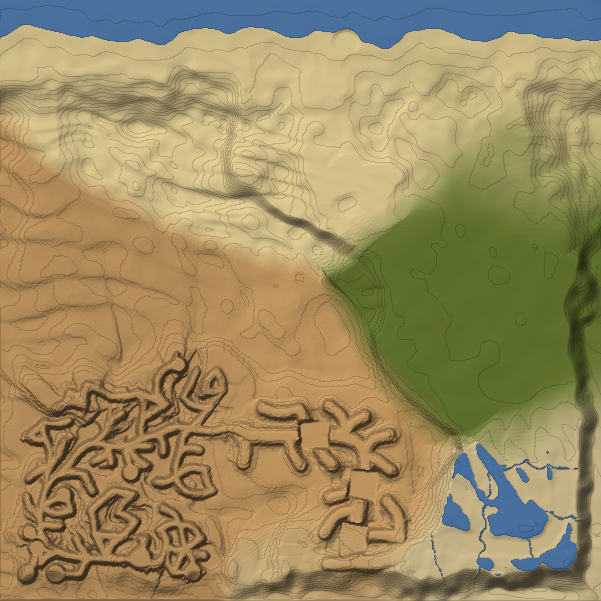
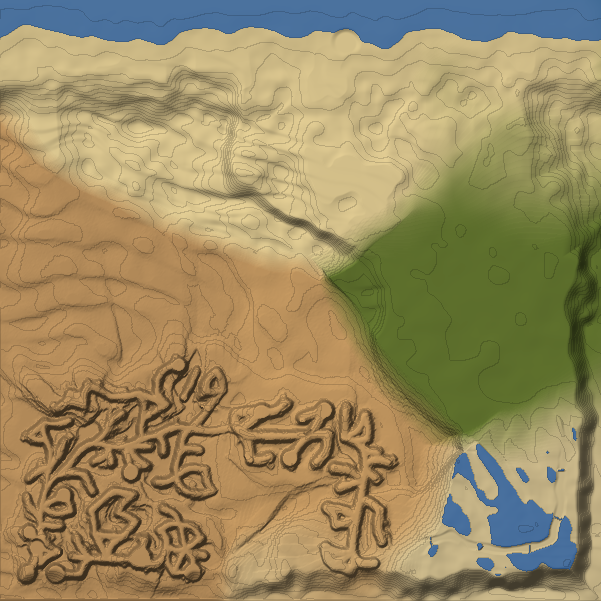
feat(tools): cañón en laberinto con túneles excavados que bajan y suben
- Cañón: otro laberinto de acantilados (2 niveles, 41 nodos, 12
  callejones, 4 señuelos) de caras algo más tendidas y cimas onduladas,
  en lugar del pasillo recto con loma rectangular.
- Túneles: tramos del propio laberinto excavados en la roca, 2 en los
  acantilados y 3 en el cañón; en cada zona el camino bueno pasa por uno.
  Sección elíptica redondeada que cambia de ancho y alto, suelo plano que
  baja (o sube) 1,5-3,2 m por dentro y vuelve a la cota del laberinto en
  las bocas. La arista del túnel no abre pasillo en el relieve: queda roca
  encima.
- Zona encharcada: sendero estrecho (2-3,3 m) que serpentea hasta ~7 m a
  los lados de la ruta; el charco que lo corta ya no cruza la zona entera.
- Todo sale del generador aparte: la semilla aprobada sigue igual.
- Tests: túneles en las dos zonas con roca encima, desnivel y el camino
  bueno por un túnel en cada zona; sendero seco a menos de 8 m de la ruta.

diff --git a/Scripts/terrain_vol/density.py b/Scripts/terrain_vol/density.py
@@ -31,10 +31,13 @@ CLIFF_LEVEL_M = 4.5                     # separacion entre niveles del laberinto
 CLIFF_LEVELS = 3
 MARSH_PATH_TOP_M = WATER_M + 1.3        # crestas por las que se cruza la zona encharcada
 END_PLAZA_M = WATER_M + 1.8             # plaza de llegada, seca, sobre la playa
-MARSH_JUMP_EVERY_M = 48.0               # cada cuanto un canal estrecho corta la barra y se salta
-TUNNEL_HALF_WIDTH_M = 5.0
-TUNNEL_HEIGHT_M = 5.5
-TUNNEL_LENGTH_M = (26.0, 36.0)
+MARSH_JUMP_EVERY_M = 48.0               # cada cuanto un charco estrecho corta el sendero y se salta
+MARSH_WIGGLE_M = 7.0                    # cuanto se aparta el sendero de la ruta a los lados
+TUNNEL_HALF_WIDTH_M = 3.6              # semiancho de la seccion del tunel del laberinto
+TUNNEL_HEIGHT_M = 5.0
+TUNNEL_LENGTH_M = (26.0, 36.0)         # (solo lo usa el plan antiguo, que se conserva por la semilla)
+TUNNEL_EDGE_M = (14.0, 42.0)           # longitud de las aristas del laberinto que se hacen tunel
+TUNNELS_PER_ZONE = {"cliffs": 2, "canyon": 3}
 OUTER_WALL_M = 15.0
 EDGE_WALL_M = 20.0
 TOP_LIMIT_M = Z_MAX_M - 2.0
@@ -118,6 +121,18 @@ class MapModel:
         self.n_tunnel = Fbm2D(extra, 9.0, 2)
         self.n_crest = Fbm2D(extra, 11.0, 2)
         self.n_beach_hills = Fbm2D(extra, 48.0, 3)
+        self.marsh_warp = (Fbm2D(extra, 26.0, 2), Fbm2D(extra, 26.0, 2))
+        # Canon como laberinto de acantilados (enrevesado, como el de la salida) y tuneles como
+        # tramos del laberinto excavados en la roca, en los acantilados y en el canon.
+        self.nets["canyon_maze"] = build_network(extra, self.zones, "canyon", 18.0, 0.15, level_step=CLIFF_LEVEL_M,
+                                                 level_count=2, decoys=True, reach_share=0.8)
+        self.maze_tunnels = self._pick_maze_tunnels(extra)
+        for zone in ("cliffs", "canyon_maze"):
+            closed = {e for z, e, _ in self.maze_tunnels if z == zone}
+            self.net_samples[zone] = self.nets[zone].sample(exclude=closed)
+            self.net_trees[zone] = cKDTree(self.net_samples[zone][0])
+        self.clearings["canyon_maze"] = self._pick_clearings(extra, self.nets["canyon_maze"])
+        self._build_tunnel_samples()
 
         # Campos 2D del mapa entero, con una muestra de margen alrededor.
         count = int(round((MAP_MAX_M - MAP_MIN_M) / STEP_XY_M)) + 1
@@ -137,6 +152,72 @@ class MapModel:
         levels = net.levels if net.levels is not None else np.zeros(len(net.nodes))
         return np.array([[net.nodes[k][0], net.nodes[k][1], rng.uniform(5.5, 8.5), levels[k]]
                          for k in picked]).reshape(-1, 4)
+
+    def _pick_maze_tunnels(self, rng: np.random.Generator) -> list[tuple[str, int, float]]:
+        """Aristas del laberinto que se excavan como tunel: (red, arista, desnivel). En cada zona
+        al menos una esta en la cadena (el camino bueno pasa por un tunel). El desnivel es sobre
+        todo negativo: el tunel baja por dentro y vuelve a subir."""
+        picked = []
+        for zone, net_name in (("cliffs", "cliffs"), ("canyon", "canyon_maze")):
+            net = self.nets[net_name]
+            chain_edges = {tuple(sorted((net.chain[k], net.chain[k + 1]))) for k in range(2, len(net.chain) - 3)}
+            lengths = [float(np.sum(np.linalg.norm(np.diff(c, axis=0), axis=1))) for c in net.curves]
+            ok = [k for k, e in enumerate(net.edges) if TUNNEL_EDGE_M[0] <= lengths[k] <= TUNNEL_EDGE_M[1]]
+            on_chain = [k for k in ok if tuple(sorted(net.edges[k])) in chain_edges]
+            others = [k for k in ok if tuple(sorted(net.edges[k])) not in chain_edges]
+            rng.shuffle(on_chain)
+            rng.shuffle(others)
+            chosen = on_chain[:1] + others[:TUNNELS_PER_ZONE[zone] - 1]
+            used_nodes: set[int] = set()
+            for k in chosen:
+                a, b = net.edges[k]
+                if a in used_nodes or b in used_nodes:
+                    continue
+                used_nodes |= {a, b}
+                dip = float(rng.uniform(1.5, 3.2)) * (-1.0 if rng.random() < 0.75 else 1.0)
+                picked.append((net_name, k, dip))
+        return picked
+
+    def _build_tunnel_samples(self) -> None:
+        """Puntos de todos los tuneles cada 0,5 m (prolongados 2,5 m por cada boca) con su
+        parametro t (0..1 de boca a boca), la cota de su suelo y su desnivel."""
+        pts, ts, floors, dips = [], [], [], []
+        for net_name, edge, dip in self.maze_tunnels:
+            net = self.nets[net_name]
+            curve = net.curves[edge]
+            seg = np.linalg.norm(np.diff(curve, axis=0), axis=1)
+            arc = np.concatenate(([0.0], np.cumsum(seg)))
+            s = np.arange(-2.5, arc[-1] + 2.5 + 0.5, 0.5)
+            x = np.interp(s, arc, curve[:, 0])
+            y = np.interp(s, arc, curve[:, 1])
+            # Prolongacion recta por las bocas (interp satura en los extremos).
+            head = (curve[1] - curve[0]) / max(float(np.linalg.norm(curve[1] - curve[0])), 1e-9)
+            tail = (curve[-1] - curve[-2]) / max(float(np.linalg.norm(curve[-1] - curve[-2])), 1e-9)
+            before, after = s < 0.0, s > arc[-1]
+            x[before] = curve[0, 0] + head[0] * s[before]
+            y[before] = curve[0, 1] + head[1] * s[before]
+            x[after] = curve[-1, 0] + tail[0] * (s[after] - arc[-1])
+            y[after] = curve[-1, 1] + tail[1] * (s[after] - arc[-1])
+            t = s / max(arc[-1], 1e-9)
+            pts.append(np.stack([x, y], axis=1))
+            ts.append(t)
+            floors.append(net.edge_floor(edge, t))
+            dips.append(np.full_like(t, dip))
+        if pts:
+            self.tunnel_pts = np.vstack(pts)
+            self.tunnel_t = np.concatenate(ts)
+            self.tunnel_floor = np.concatenate(floors)
+            self.tunnel_dip = np.concatenate(dips)
+            self.tunnel_tree = cKDTree(self.tunnel_pts)
+        else:
+            self.tunnel_tree = None
+
+    def _tunnel_query(self, X, Y):
+        """(distancia al eje del tunel mas cercano, t, suelo, desnivel), con la forma de X."""
+        d, k = self.tunnel_tree.query(np.stack([X.ravel(), Y.ravel()], axis=1))
+        shape = X.shape
+        return (d.reshape(shape), self.tunnel_t[k].reshape(shape), self.tunnel_floor[k].reshape(shape),
+                self.tunnel_dip[k].reshape(shape))
 
     def _plan_tunnels(self, rng: np.random.Generator) -> list[tuple[float, float]]:
         """2-3 tramos de tunel en el canon, en tramos casi rectos de la ruta y separados."""
@@ -200,18 +281,6 @@ class MapModel:
         strength = smooth(0.2, 0.8, self.n_dune_amp.unit(X, Y))
         return amp * field * (0.15 + 0.85 * strength)
 
-    def _tunnel_mask(self, s, d):
-        out = np.zeros_like(s)
-        for a, b in self.tunnels:
-            out = np.maximum(out, smooth(a - 1.0, a + 1.0, s) * (1.0 - smooth(b - 1.0, b + 1.0, s)))
-        return out * (1.0 - smooth(TUNNEL_HALF_WIDTH_M + 6.0, TUNNEL_HALF_WIDTH_M + 12.0, d))
-
-    def _ridge(self, s, d):
-        out = np.zeros_like(s)
-        for a, b in self.tunnels:
-            out = np.maximum(out, smooth(a - 12.0, a + 2.0, s) * (1.0 - smooth(b - 2.0, b + 12.0, s)))
-        return 4.0 * out * (1.0 - smooth(18.0, 35.0, d))
-
     def _rock_walls(self, X, Y, d, hw, f, top, face_width: float = 1.1, rim: float = 0.0):
         """Pasillo en roca con aspecto erosionado: contrafuertes, grietas que se meten en la
         pared y un talud de derrubios al pie. face_width: anchura horizontal de la cara (1 m ~
@@ -262,38 +331,43 @@ class MapModel:
         near_corridor = 1.0 - smooth(hw + 1.0, hw + 9.0, d_eff)
         floors["cliffs"] = f * near_corridor + (level_soft * (1.0 - start_w)) * (1.0 - near_corridor)
 
-        # Canon: pasillo algo mas recto y ancho por la ruta, callejones a los lados y tuneles.
-        d_side, _ = self._net("canyon", X, Y)
-        hw_main = 5.0 + 1.8 * width + 0.7 * self.n_buttress(X, Y)
-        d_can = np.minimum(d_route - (hw_main - 4.0), d_side)      # misma cara para los dos
-        tunnel = self._tunnel_mask(s_route, d_route)
-        d_can = np.where(tunnel > 0.5, np.maximum(d_can, 30.0), d_can)
-        f = 0.8 + 0.8 * mid
-        # Cimas onduladas (no una meseta de regla): repisas solo a medias, relieve grande.
-        raw_top = f + 9.0 + 5.0 * self.n_mid.unit(X, Y) + 2.5 * big + 1.2 * small + self._ridge(s_route, d_route)
-        top = 0.5 * raw_top + 0.5 * strata(raw_top, 2.5)
-        face_w = 2.6 + 1.6 * self.n_talus.unit(X, Y)
+        # Canon: otro laberinto de acantilados (2 niveles), de caras algo mas tendidas y cimas
+        # onduladas; sus tuneles son tramos del laberinto excavados en la roca.
+        d, level = self._net("canyon_maze", X, Y)
+        _, level_soft = self._net("canyon_maze", X, Y, smooth_m=10.0)
+        clear_w, clear_level = self._clearing("canyon_maze", X, Y)
+        hw = 3.4 + 1.4 * width + 0.8 * self.n_buttress(X, Y)
+        f = (level * (1.0 - clear_w) + clear_level * clear_w) + 0.3 * small
+        raw_top = level_soft + 10.0 + 4.5 * self.n_mid.unit(X, Y) + 2.0 * big + 1.2 * small
+        top = 0.5 * raw_top + 0.5 * strata(raw_top, 3.0)
+        d_eff = d * (1.0 - clear_w)
+        face_w = 1.6 + 1.2 * self.n_talus.unit(X, Y)
         heights["canyon"], bands["canyon"], axes["canyon"] = self._rock_walls(
-            X, Y, d_can, 4.0 + width, f, top, face_width=face_w, rim=0.35)
-        floors["canyon"] = f
+            X, Y, d_eff, hw, f, top, face_width=face_w, rim=0.2)
+        near_corridor = 1.0 - smooth(hw + 1.0, hw + 9.0, d_eff)
+        floors["canyon"] = f * near_corridor + level_soft * (1.0 - near_corridor)
 
         # Zona encharcada: dunas cuyas vaguadas quedan bajo el agua (laguitos); se cruza por
         # una cresta seca que sigue la ruta, con algun hueco que se salta.
         # Laguitos en las hondonadas de un relieve de manchas (no en franjas) y dunas encima.
         base = WATER_M - 0.6 + 3.0 * self.n_pond(X, Y) + self._dunes(X, Y, 2.4, 22.0)
-        # Barra de arena natural (no un dique): ancha, de orillas suaves e irregulares, que
-        # sube y baja con las dunas; los charcos la bordean. De vez en cuando un canal
-        # estrecho y torcido la corta y se salta.
-        bar_w = 4.0 + 4.0 * self.n_width.unit(X, Y)
-        crest = 1.0 - smooth(bar_w, bar_w + 9.0, d_route + 3.0 * self.n_crest(X, Y))
-        channel_s = np.mod(s_route + 6.0 * self.n_crest(Y, X), MARSH_JUMP_EVERY_M) - MARSH_JUMP_EVERY_M / 2
-        gap = (1.0 - smooth(0.5, 1.0, np.abs(channel_s))) * smooth(0.85, 0.95, w["marsh"])
+        # Sendero de arena natural (no un dique): estrecho, de orillas suaves e irregulares,
+        # que serpentea alrededor de la ruta (dominio deformado) y sube y baja con las dunas;
+        # los charcos lo bordean. De vez en cuando un charco estrecho lo corta y se salta.
+        wx = X + MARSH_WIGGLE_M * self.marsh_warp[0](X, Y)
+        wy = Y + MARSH_WIGGLE_M * self.marsh_warp[1](X, Y)
+        d_path, s_path = self.zones.nearest(wx, wy)
+        bar_w = 2.0 + 1.3 * self.n_width.unit(X, Y)
+        crest = 1.0 - smooth(bar_w, bar_w + 3.5, d_path + 0.8 * self.n_crest(X, Y))
+        channel_s = np.mod(s_path + 4.0 * self.n_crest(Y, X), MARSH_JUMP_EVERY_M) - MARSH_JUMP_EVERY_M / 2
+        # El corte solo existe sobre el sendero: no es un rio que cruce toda la zona.
+        gap = (1.0 - smooth(0.5, 1.0, np.abs(channel_s))) * smooth(0.85, 0.95, w["marsh"]) * smooth(0.3, 0.8, crest)
         path_top = MARSH_PATH_TOP_M + 0.5 * self._dunes(X, Y, 1.2, 16.0) + 0.3 * small
         land = base * (1.0 - crest) + np.maximum(base, path_top) * crest
         heights["marsh"] = land * (1.0 - gap) + np.minimum(land, WATER_M - 0.6) * gap
         floors["marsh"] = np.full_like(X, MARSH_PATH_TOP_M)
         bands["marsh"] = np.zeros_like(X)
-        axes["marsh"] = 1.0 - smooth(0.5, 1.5, d_route)
+        axes["marsh"] = 1.0 - smooth(0.5, 1.5, d_path)
 
         # Algas: lomas y hondonadas, red densa de sendas; el laberinto lo hace la espesura.
         d, _ = self._net("algae", X, Y)
@@ -345,7 +419,11 @@ class MapModel:
         plaza = 1.0 - smooth(10.0, 16.0, np.hypot(X - end[0], Y - end[1]))
         height = height * (1 - plaza) + np.maximum(height, END_PLAZA_M) * plaza
         height = np.minimum(height, TOP_LIMIT_M)
-        tunnel_zone = w["canyon"] * self._tunnel_mask(s_route, d_route)
+        if self.tunnel_tree is not None:
+            u, _, _, _ = self._tunnel_query(X, Y)
+            tunnel_zone = 1.0 - smooth(TUNNEL_HALF_WIDTH_M + 1.5, TUNNEL_HALF_WIDTH_M + 5.0, u)
+        else:
+            tunnel_zone = np.zeros_like(X)
         return Fields(w, d_route, s_route, height, floor, np.clip(band, 0, 1), np.clip(foliage, 0, 1), tunnel_zone,
                       np.clip(path, 0, 1))
 
@@ -390,29 +468,25 @@ class MapModel:
             D = np.minimum(D, -carve)
         return D
 
-    def _tunnel_carve(self, f: Fields, Z3, X=None, Y=None):
-        """> 0 dentro del hueco del tunel: boveda irregular (anchura y altura que cambian a lo
-        largo) sobre un suelo que sube o baja por dentro, con paredes rugosas."""
-        span = np.zeros_like(f.s_route)
-        climb = np.zeros_like(f.s_route)
-        for (a, b), amp in zip(self.tunnels, self.tunnel_climb):
-            span = np.maximum(span, smooth(a - 6.0, a - 3.0, f.s_route) * (1.0 - smooth(b + 3.0, b + 6.0, f.s_route)))
-            t = np.clip((f.s_route - a) / (b - a), 0.0, 1.0)
-            climb = climb + amp * np.sin(np.pi * t) * ((f.s_route > a - 6.0) & (f.s_route < b + 6.0))
-        span = span * (f.weights["canyon"] > 0.5)
-        if X is not None:
-            wobble = self.n_tunnel(X, Y)
-            half = TUNNEL_HALF_WIDTH_M * (1.0 + 0.25 * wobble)
-            height = TUNNEL_HEIGHT_M * (1.0 + 0.2 * self.n_tunnel(Y, X))
-        else:
-            half, height = np.full_like(span, TUNNEL_HALF_WIDTH_M), np.full_like(span, TUNNEL_HEIGHT_M)
-        u = f.d_route[..., None]
-        v = Z3 - (f.floor + climb)[..., None]
-        shape = np.broadcast_shapes(u.shape, v.shape)
-        arch = height[..., None] * np.sqrt(np.clip(1.0 - (u / half[..., None]) ** 2, 0.0, 1.0)) + 0.8
-        inside = np.minimum.reduce([np.broadcast_to(arch - v, shape), np.broadcast_to(v + 0.25, shape),
-                                    np.broadcast_to(half[..., None] + 0.8 - u, shape)])
-        return np.where(span[..., None] > 0.5, inside, -1.0)
+    def _tunnel_carve(self, f: Fields, Z3, X, Y):
+        """> 0 dentro del hueco del tunel: seccion eliptica redondeada (sin cantos) que cambia
+        de ancho y alto a lo largo, sobre un suelo plano que baja (o sube) por dentro y vuelve
+        a la cota del laberinto en cada boca."""
+        if self.tunnel_tree is None:
+            return np.full(np.broadcast_shapes(X.shape + (1,), Z3.shape), -1.0)
+        u, t, floor, dip = self._tunnel_query(X, Y)
+        tc = np.clip(t, 0.0, 1.0)
+        base = floor + dip * np.sin(np.pi * tc)
+        half = TUNNEL_HALF_WIDTH_M * (1.0 + 0.22 * self.n_tunnel(X, Y))
+        height = TUNNEL_HEIGHT_M * (1.0 + 0.18 * self.n_tunnel(Y, X))
+        v = Z3 - base[..., None]
+        center = 0.42 * height[..., None]
+        radius_v = 0.62 * height[..., None]
+        ellipse = 1.0 - np.sqrt((u[..., None] / half[..., None]) ** 2 + ((v - center) / radius_v) ** 2)
+        inside = np.minimum(ellipse * half[..., None], v + 0.3)      # suelo plano para caminar
+        # Fuera del tramo (mas alla de la prolongacion de las bocas) no se excava.
+        active = (t > -0.2) & (t < 1.2)
+        return np.where(active[..., None], inside, -1.0)
 
 
 # ── Erosion (funciones puras sobre una rejilla de 1 m) ─────────────────────────────

diff --git a/Scripts/tests/test_terrain_volume.py b/Scripts/tests/test_terrain_volume.py
@@ -56,10 +56,13 @@ def test_se_llega_a_pie_del_inicio_al_final(model, standable):
 
 
 def test_el_tunel_tiene_roca_encima_y_se_cruza_por_dentro(model, chunks):
-    assert len(model.tunnels) >= 2
+    assert len(model.maze_tunnels) >= 3
+    zones = {z for z, _, _ in model.maze_tunnels}
+    assert zones == {"cliffs", "canyon_maze"}, "tuneles solo en una zona"
     covered = 0
-    for a, b in model.tunnels:
-        p = model.route.point_at(0.5 * (a + b))
+    for net_name, edge, _ in model.maze_tunnels:
+        curve = model.nets[net_name].curves[edge]
+        p = curve[len(curve) // 2]
         i, j = world_index(p)
         col, row = j // (CELL_SAMPLES - 1), i // (CELL_SAMPLES - 1)
         chunk = chunks[(min(col, 5), min(row, 5))]
@@ -71,7 +74,7 @@ def test_el_tunel_tiene_roca_encima_y_se_cruza_por_dentro(model, chunks):
         roof_z = Z_MIN_M + STEP_Z_M * levels.max()
         assert roof_z - floor_z >= 5.0
         covered += 1
-    assert covered == len(model.tunnels)
+    assert covered == len(model.maze_tunnels)
 
 
 def test_los_laberintos_tienen_callejones_y_un_solo_paso(model):
@@ -100,9 +103,12 @@ def test_la_zona_encharcada_tiene_laguitos_y_cresta_seca(model, chunks):
     top = global_top(chunks)
     s0, s1 = model.route.zone_range("marsh")
     samples = np.linspace(s0 + 20.0, s1 - 20.0, 60)
-    dry = [top[world_index(model.route.point_at(s))] > WATER_M + 0.2 for s in samples]
-    # La cresta es seca salvo los huecos que se saltan.
-    assert np.mean(dry) > 0.85
+    # El sendero serpentea alrededor de la ruta (hasta ~7 m): seco a menos de 8 m de cada punto.
+    dry = []
+    for s in samples:
+        i, j = world_index(model.route.point_at(s))
+        dry.append(bool(np.any(top[i - 8:i + 9, j - 8:j + 9] > WATER_M + 0.2)))
+    assert np.mean(dry) > 0.9
     # Hay agua a los lados de la cresta (laguitos), no un solo lago ni un secarral.
     around = []
     for s in samples[::6]:
@@ -169,8 +175,14 @@ def test_sin_picos_de_una_celda_en_la_roca(model):
     assert int((spike > 4.0).sum()) == 0
 
 
-def test_los_tuneles_suben_o_bajan_por_dentro(model):
-    assert all(1.0 <= abs(c) <= 3.5 for c in model.tunnel_climb)
+def test_los_tuneles_bajan_o_suben_por_dentro_y_el_camino_pasa_por_uno(model):
+    assert all(1.0 <= abs(dip) <= 3.5 for _, _, dip in model.maze_tunnels)
+    assert any(dip < 0 for _, _, dip in model.maze_tunnels), "ninguno baja por debajo"
+    for zone in ("cliffs", "canyon_maze"):
+        net = model.nets[zone]
+        chain = {tuple(sorted((net.chain[k], net.chain[k + 1]))) for k in range(len(net.chain) - 1)}
+        assert any(tuple(sorted(net.edges[e])) in chain for z, e, _ in model.maze_tunnels if z == zone), \
+            f"el camino bueno no pasa por un tunel en {zone}"
 
 
 def test_la_semilla_aprobada_da_el_mismo_mapa(model):

diff --git a/Scripts/terrain_vol/network.py b/Scripts/terrain_vol/network.py
@@ -61,12 +61,23 @@ class Network:
                     stack.append(m)
         return b in seen
 
-    def sample(self, step: float = 0.5) -> tuple[np.ndarray, np.ndarray]:
+    def edge_floor(self, edge: int, t):
+        """Cota del suelo a lo largo de la arista (t en 0..1): rampa suave entre sus nodos."""
+        levels = self.levels if self.levels is not None else np.zeros(len(self.nodes))
+        a, b = self.edges[edge]
+        t = np.clip(t, 0.0, 1.0)
+        t = t * t * (3.0 - 2.0 * t)
+        return levels[a] + (levels[b] - levels[a]) * t
+
+    def sample(self, step: float = 0.5, exclude: set[int] | None = None) -> tuple[np.ndarray, np.ndarray]:
         """Puntos a lo largo de todas las aristas (para medir distancias con un KD-tree) y la
-        cota del suelo en cada uno: interpolada entre las de los dos nodos de su arista."""
+        cota del suelo en cada uno: interpolada entre las de los dos nodos de su arista.
+        exclude: indices de aristas que no se muestrean (tuneles: no son pasillo abierto)."""
         out, floors = [], []
         levels = self.levels if self.levels is not None else np.zeros(len(self.nodes))
-        for (a, b), curve in zip(self.edges, self.curves):
+        for index, ((a, b), curve) in enumerate(zip(self.edges, self.curves)):
+            if exclude and index in exclude:
+                continue
             seg = np.linalg.norm(np.diff(curve, axis=0), axis=1)
             arc = np.concatenate(([0.0], np.cumsum(seg)))
             s = np.arange(0.0, arc[-1] + step, step)

diff --git a/Scripts/gen_terrain_volume.py b/Scripts/gen_terrain_volume.py
@@ -119,7 +119,7 @@ def main() -> None:
               model.route.points)
     tris = sum(len(c.triangles) for c in chunks.values())
     plants = sum(len(c.instances) for c in chunks.values())
-    print(f"{args.name}: ruta {model.route.length:.0f} m; {len(model.tunnels)} tuneles; {tris} triangulos; "
+    print(f"{args.name}: ruta {model.route.length:.0f} m; {len(model.maze_tunnels)} tuneles; {tris} triangulos; "
           f"{plants} algas; inicio->final a pie: {'SI' if ok else 'NO'}; {time.time() - t0:.1f} s")
     if not ok:
         raise SystemExit("el final no se alcanza a pie desde el inicio")
